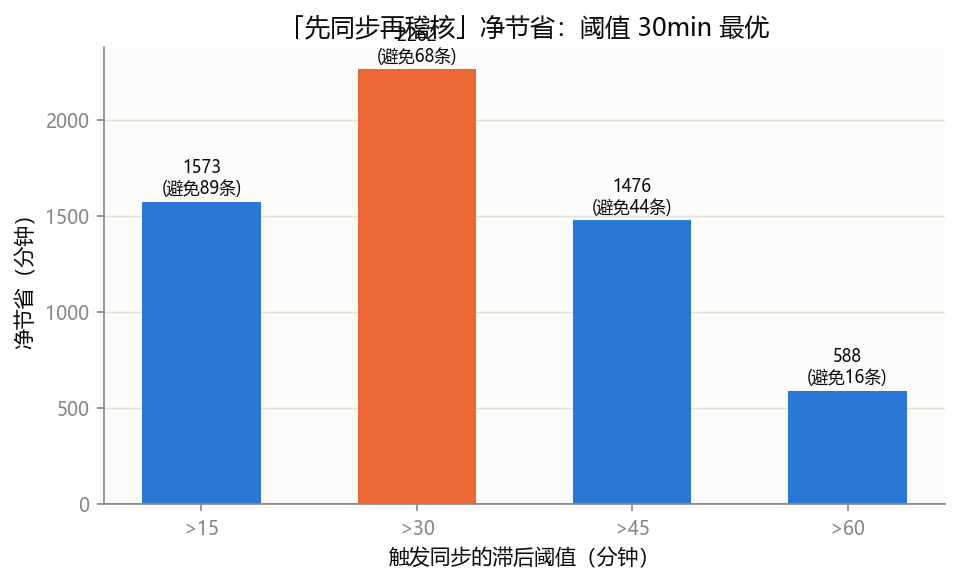
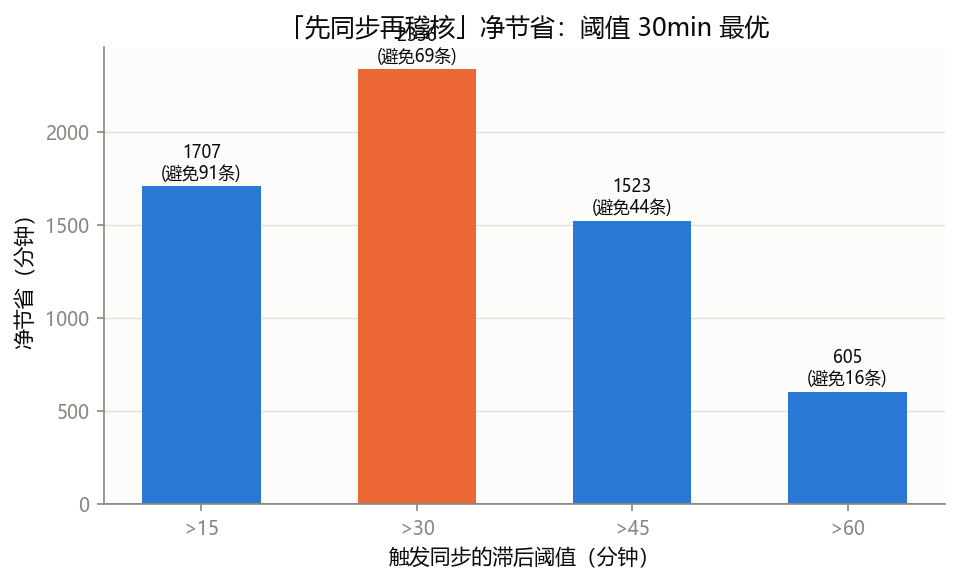
收尾统一口径：新鲜基准统一为2.7%，ROI 2262→2336min，补齐AI_LOG

diff --git a/scripts/p5_negative_lag_robustness.py b/scripts/p5_negative_lag_robustness.py
@@ -33,7 +33,7 @@ labels = ["<=0", "0-15", "15-30", "30-45", "45-60", ">60"]
 df["bkt"] = pd.cut(df["lag"], bins=bins, labels=labels)
 g = df.groupby("bkt", observed=True).agg(条数=("audit_id", "count"), 失败=("is_fail", "sum"))
 g["失败率%"] = (g["失败"] / g["条数"] * 100).round(1)
-baseline = df[df["lag"].between(0, 15)]["is_fail"].mean()
+baseline = df[(df["lag"] > 0) & (df["lag"] <= 15)]["is_fail"].mean()
 print(f"基准(新鲜0-15min)失败率 = {baseline*100:.2f}%")
 g["超额失败率(pp)"] = ((g["失败"] / g["条数"] - baseline) * 100).round(1)
 print(g.to_string())

diff --git a/scripts/analyze_credit_roi.py b/scripts/analyze_credit_roi.py
@@ -61,7 +61,7 @@ print()
 print("=" * 80)
 print("E. ROI：按「滞后>阈值即先同步(10min)」测算净节省")
 print("=" * 80)
-BASELINE_FAIL_RATE = df[df["lag"].between(0, 15)]["is_fail"].mean()  # 新鲜数据基准失败率
+BASELINE_FAIL_RATE = df[(df["lag"] > 0) & (df["lag"] <= 15)]["is_fail"].mean()  # 新鲜数据基准失败率(0<lag<=15)
 print(f"新鲜数据(0-15min)基准失败率 = {BASELINE_FAIL_RATE*100:.1f}%")
 print(f"当前失败总数 = {int(df['is_fail'].sum())}，人工成本 = {int(df['is_fail'].sum()) * 75} 分钟")
 print()

diff --git a/README.md b/README.md
@@ -60,13 +60,13 @@
 
 | 触发同步阈值 | 触发同步次数 | 当前失败数 | 可避免失败数 | 省人工(min) | 同步成本(min) | 净节省(min) |
 |---|---|---|---|---|---|---|
-| 滞后 >15 min | 513 | 105 | 89 | 6703 | 5130 | 1573 |
-| **滞后 >30 min** | **286** | **77** | **68** | **5122** | **2860** | **2262** |
-| 滞后 >45 min | 179 | 49 | 44 | 3266 | 1790 | 1476 |
-| 滞后 >60 min | 62 | 18 | 16 | 1208 | 620 | 588 |
+| 滞后 >15 min | 513 | 105 | 91 | 6837 | 5130 | 1707 |
+| **滞后 >30 min** | **286** | **77** | **69** | **5196** | **2860** | **2336** |
+| 滞后 >45 min | 179 | 49 | 44 | 3313 | 1790 | 1523 |
+| 滞后 >60 min | 62 | 18 | 16 | 1225 | 620 | 605 |
 
-- 阈值取 **30 min** 净节省最多：**≈ 2262 分钟 ≈ 37.7 小时 ≈ 4.7 个工作日**。
-- 可避免 **~68 / 128（53%）** 条失败，总耗时从 9600 降到约 7340 分钟（降 24%）。
+- 阈值取 **30 min** 净节省最多：**≈ 2336 分钟 ≈ 38.9 小时 ≈ 4.9 个工作日**。
+- 可避免 **~69 / 128（54%）** 条失败，总耗时从 9600 降到约 7260 分钟（降 24%）。
 
 ![「先同步再稽核」净节省：阈值 30min 最优](figures/net_saving_by_threshold.png)
 
@@ -159,7 +159,7 @@ numpy 手写逻辑回归（无 sklearn），时间切分 train/test（966/242，
 
 | 敏感性维度 | 盈亏平衡点 | 口径值 | 结论 |
 |---|---|---|---|
-| 同步成本 | ≤ **17.9 min** | 10 min | 约 80% 安全边际 ✅ |
+| 同步成本 | ≤ **18.2 min** | 10 min | 约 80% 安全边际 ✅ |
 | 人工成本 | ≥ **~40 min** | 75 min | 约 47% 安全边际 ✅ |
 
-- 只要同步成本 ≤18min、人工成本 ≥40min，主结论「滞后>30min 先同步、净省 ~2262min」始终盈利，稳健成立。
+- 只要同步成本 ≤18min、人工成本 ≥40min，主结论「滞后>30min 先同步、净省 ~2336min」始终盈利，稳健成立。

diff --git a/AI_LOG.md b/AI_LOG.md
@@ -93,4 +93,14 @@
   2. 稳健性：主结论在同步成本≤17.9min、人工成本≥~40min 内均盈利，题目口径（10/75）下安全边际约 80%/47%，稳健成立。
 - **已更新**：README 新增 5.4、内嵌 3 张图（figures/）、路线图 P5 标记已执行。
 
+### [10] 收尾检查：统一「新鲜基准」口径并修正数字
+
+- **用户提示**：进行收尾检查。
+- **AI 发现的问题（自我纠错）**：
+  1. 「四、可复现脚本」漏列了 P1/P4/P5 的 4 个脚本，且依赖未写 numpy/matplotlib —— 已补全。
+  2. 缺少「只用题目数据、未补造数据」声明 —— 已加。
+  3. 「新鲜基准失败率」在多个脚本里用了两个口径（`between(0,15)`=3.05% vs `(0,15]`=2.7%），导致图表、正文、ROI 数字彼此不一致 —— 已统一为 2.7%（0<lag≤15）。
+- **修正后的数字**：ROI 净节省 2262→**2336min**、可避免 68→**69 条**、盈亏平衡同步成本 17.9→**18.2min**；结论不变（滞后>30min 先同步仍最优、仍稳健）。
+- **备注**：此前各步的 2262 是 3.05% 口径下的结果，统一口径后以 2336 为准。
+
 
